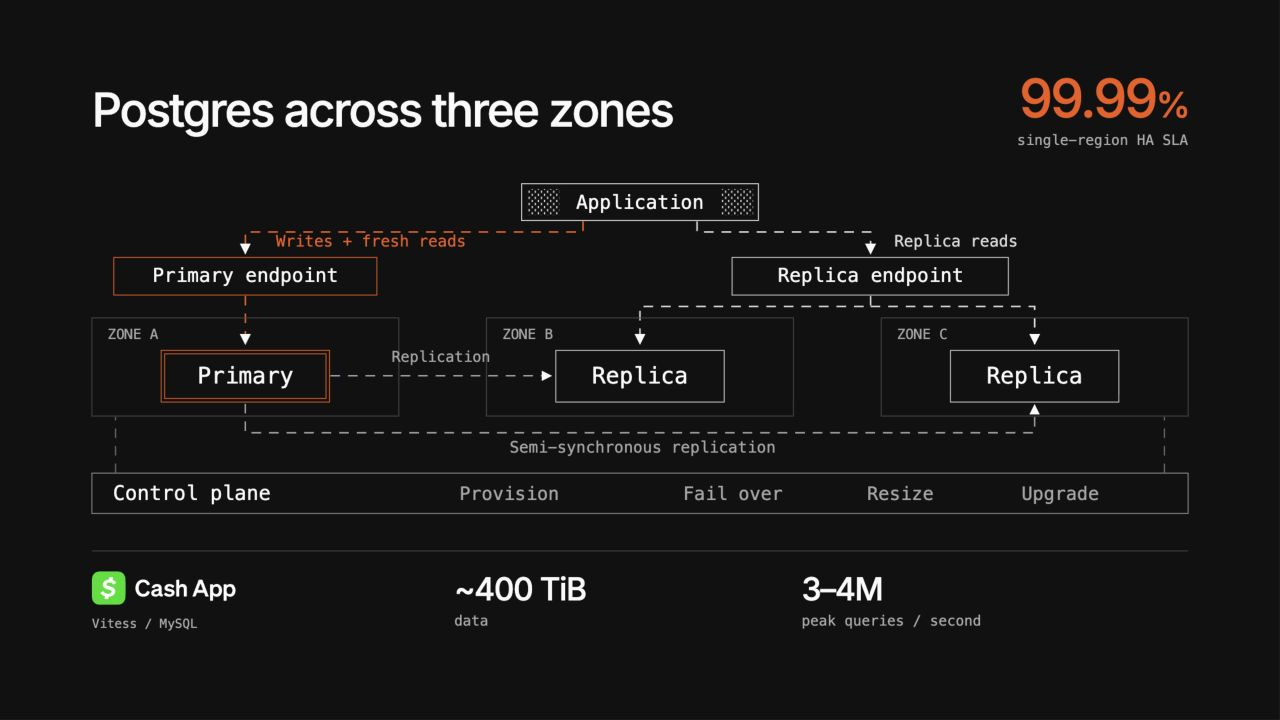
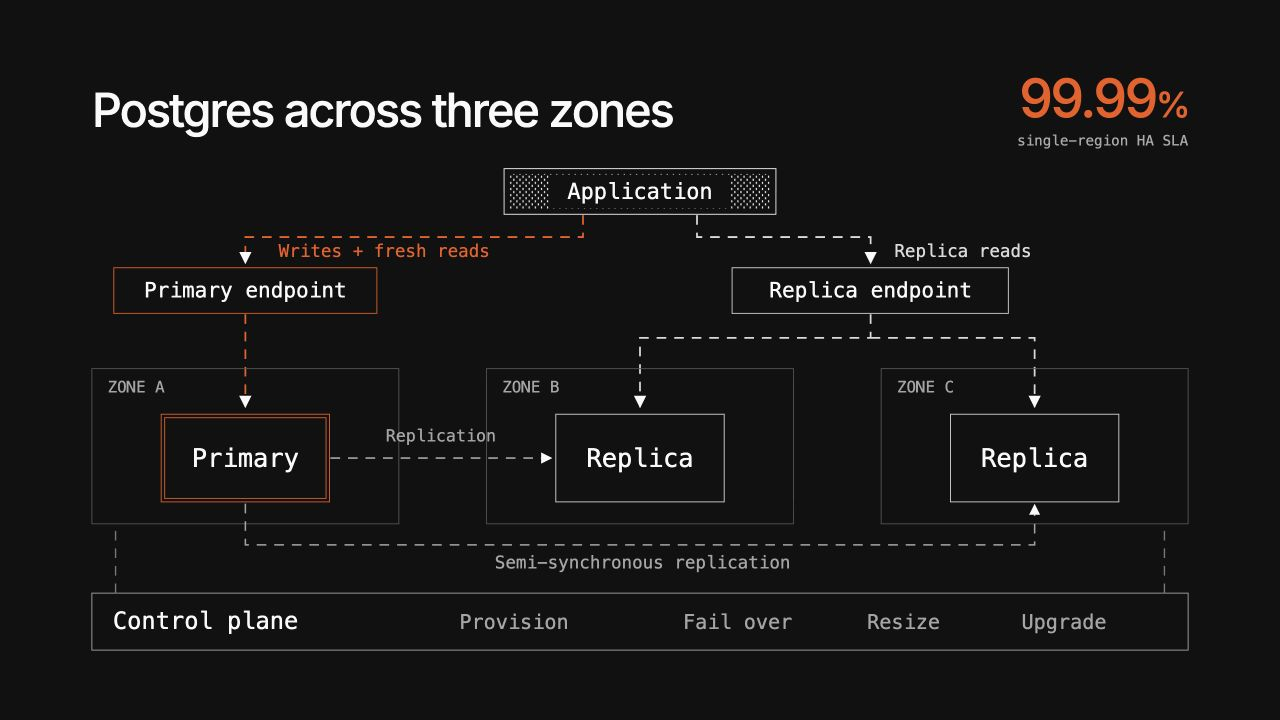
Expand availability architecture and remove Cash App proof row

diff --git a/theme.css b/theme.css
@@ -37,19 +37,14 @@ body{margin:0;background:var(--ink);color:var(--white);font-family:Inter,Arial,s
 .vitalize-charts svg{height:390px;width:100%}
 .vitalize-charts>div:last-child{border-left:1px solid #555;padding-left:24px}
 
-/* Availability: one heading, a wide topology, and a concise proof row. */
+/* Availability: the full content area belongs to the node and control-plane architecture. */
 .title-with-stat{display:flex;justify-content:space-between;align-items:center;gap:36px}
 .sla{flex-shrink:0;text-align:right}
 .sla strong{font-size:64px;letter-spacing:-3px;color:var(--orange);line-height:1}
 .sla strong span{font-size:42px}
 .sla p{font:17px var(--mono);color:#aaa;margin-top:8px}
-.ha-diagram{margin-top:42px}
+.ha-diagram{margin-top:24px}
 .ha-diagram svg{width:100%;height:auto}
-.cash-proof{display:grid;grid-template-columns:1.05fr 1fr 1.3fr;align-items:center;gap:60px;border-top:1px solid #484848;padding-top:24px;margin-top:40px}
-.cash-proof strong{display:block;font-size:38px;letter-spacing:-1.4px;white-space:nowrap}
-.cash-proof span{display:block;font:17px var(--mono);color:#aaa;margin-top:9px}
-.cash-proof .customer img{width:172px}
-.cash-proof .customer span{font-size:15px;margin-top:10px}
 
 /* Benchmarks: align chart headings and reserve the lower band for workload context. */
 .metal-heading{display:flex;justify-content:space-between;align-items:baseline;gap:30px}

diff --git a/build_content.py b/build_content.py
@@ -31,23 +31,23 @@ b+=stipple_box(60,325,380,64,'Local NVMe','metal-hero-accent',ORANGE,25)
 b+=txt(250,465,'Compute + storage on one server',18,GRAY,'middle')
 servers=svg(500,475,b,'The application connects to PlanetScale Metal. Postgres compute and local NVMe storage run on the same server.',mark='metal-hero')
 
-# HA: compact topology keeps component labels readable beside the customer proof.
-b=stipple_box(490,0,270,42,'Application','ha-arrow-dots',WHITE,22)
-b+=path('M560 43V55H175V80',ORANGE,1.8,True,arrow='ha-arrow')+txt(210,72,'Writes + fresh reads',18,ORANGE)
-b+=path('M690 43V55H888V80',BLUE,1.8,True,arrow='ha-arrow')+txt(915,72,'Replica reads',18,BLUE)
-b+=rect(25,84,300,43,stroke=ORANGE)+txt(175,112,'Primary endpoint',22,anchor='middle')
-b+=rect(730,84,315,43,stroke=BLUE)+txt(888,112,'Replica endpoint',22,anchor='middle')
-b+=path('M175 128V183',ORANGE,1.8,True,arrow='ha-arrow')
-b+=path('M888 128V140H625V183',BLUE,1.8,True,arrow='ha-arrow')+path('M888 140H1075V183',BLUE,1.8,True,arrow='ha-arrow')
+# HA: full-height architecture makes the query paths and control plane the focus.
+b=stipple_box(470,0,310,52,'Application','ha-arrow-dots',WHITE,25)
+b+=path('M560 53V78H175V108',ORANGE,2,True,arrow='ha-arrow')+txt(213,101,'Writes + fresh reads',20,ORANGE)
+b+=path('M690 53V78H888V108',BLUE,2,True,arrow='ha-arrow')+txt(915,101,'Replica reads',20,BLUE)
+b+=rect(25,113,300,52,stroke=ORANGE)+txt(175,147,'Primary endpoint',24,anchor='middle')
+b+=rect(730,113,315,52,stroke=BLUE)+txt(888,147,'Replica endpoint',24,anchor='middle')
+b+=path('M175 166V272',ORANGE,2,True,arrow='ha-arrow')
+b+=path('M888 166V193H625V272',BLUE,2,True,arrow='ha-arrow')+path('M888 193H1075V272',BLUE,2,True,arrow='ha-arrow')
 for x,label,role,color in [(0,'ZONE A','Primary',ORANGE),(450,'ZONE B','Replica',BLUE),(900,'ZONE C','Replica',BLUE)]:
-    b+=rect(x,153,350,112,'none','#484848')+txt(x+18,177,label,16,GRAY)
-    b+=(db(x+79,190,192,59,color) if role=='Primary' else rect(x+79,190,192,59,INK,color))+txt(x+175,228,role,26,anchor='middle')
-b+=path('M272 219H524',GRAY,1.7,True,arrow='ha-arrow')+txt(398,203,'Replication',17,GRAY,'middle')
-b+=path('M175 251V284H1075V252',GRAY,1.7,True,arrow='ha-arrow')+txt(628,307,'Semi-synchronous replication',18,GRAY,'middle')
-b+=rect(0,330,1250,46,INK,'#9b9b9b')+txt(24,361,'Control plane',23,WHITE,weight=500)
-b+=txt(419,361,'Provision',21,GRAY)+txt(674,361,'Fail over',21,GRAY)+txt(884,361,'Resize',21,GRAY)+txt(1060,361,'Upgrade',21,GRAY)
-for x in (27,1223):b+=path(f'M{x} 330V266','#686868',1.5,True)
-ha=svg(1250,380,b,'A primary and two read replicas across three availability zones. Primary and replica endpoints route application traffic. Semi-synchronous replication connects the nodes. The separate control plane provisions, fails over, resizes and upgrades them.',mark='ha-arrow')
+    b+=rect(x,228,350,177,'none','#555555')+txt(x+18,255,label,18,GRAY)
+    b+=(db(x+79,280,192,100,color) if role=='Primary' else rect(x+79,280,192,100,INK,color))+txt(x+175,340,role,29,anchor='middle')
+b+=path('M272 330H524',GRAY,1.8,True,arrow='ha-arrow')+txt(398,311,'Replication',19,GRAY,'middle')
+b+=path('M175 382V429H1075V383',GRAY,1.8,True,arrow='ha-arrow')+txt(628,456,'Semi-synchronous replication',20,GRAY,'middle')
+b+=rect(0,484,1250,65,INK,'#aaaaaa')+txt(24,525,'Control plane',27,WHITE,weight=500)
+b+=txt(419,525,'Provision',23,GRAY)+txt(674,525,'Fail over',23,GRAY)+txt(884,525,'Resize',23,GRAY)+txt(1060,525,'Upgrade',23,GRAY)
+for x in (27,1223):b+=path(f'M{x} 484V406','#777777',1.5,True)
+ha=svg(1250,553,b,'A primary and two read replicas across three availability zones. Primary and replica endpoints route application traffic. Semi-synchronous replication connects the nodes. The separate control plane provisions, fails over, resizes and upgrades them.',mark='ha-arrow')
 
 # Throughput bars and real one-second p99 samples, kept as native vector charts.
 qps_source=json.loads((R/'qa/benchmark-qps.json').read_text())
@@ -136,7 +136,7 @@ scale=svg(820,380,b,'Neki read-only point-select benchmark: 5 shards delivered 9
 slides=[
  dict(id='opening',label='Your Postgres. Faster on Metal',theme='opening',html=f'''<div class="hero"><div><h1>Your Postgres.<br>Faster on Metal</h1><p class="lead">Cloud Postgres on local NVMe.<br>Operated by PlanetScale.</p></div><div class="server-art">{servers}</div></div><div class="opening-proof"><div><strong>Unlimited IOPS</strong><span>Local NVMe storage</span></div><div><strong>Room to grow</strong><span>Horizontal scale with Neki</span></div></div>''',notes="1:15. “You already run Postgres. We bring the hardware and operating platform to make it faster, keep it available, and give you a path to horizontal scale as your workload grows.” Start with the prospect: a larger instance can add capacity, but someone still owns slow requests, failover, and production changes. Ask: “Which is taking the most engineering attention today?” The primary offer is hosted Postgres on Metal. Explain that local NVMe puts storage alongside compute. Unlimited IOPS is PlanetScale's product wording: there is no separately provisioned IOPS tier, but physical drives and CPUs still have finite limits. Don't imply infinite throughput. Transition: “Vitalize is one example of a Postgres team that made this move.” Sources: https://planetscale.com/metal and https://planetscale.com/blog/benchmarking-postgres."),
  dict(id='vitalize',label='Vitalize: 2 ms p95, half the vCPUs',theme='vitalize',html=f'''<h2>Vitalize: <span class="accent">2 ms p95</span></h2><div class="customer-story"><span>Hospital staffing software</span><span>400 GB / 150 million rows</span></div><div class="customer-move"><span>Supabase</span><span class="move-line"></span><strong>PlanetScale Metal</strong></div><div class="vitalize-charts"><div>{vitalize_latency}</div><div>{vitalize_compute}</div></div>''',notes='1:45. “Vitalize runs hospital staffing software. They moved a 400 GB Postgres database with 150 million rows from Supabase to PlanetScale Metal. They report about 2 ms p95 on half the vCPUs, with the same 16 GB of RAM.” Tell the customer story before explaining the graphs: demanding database reads, the move, then the result. The latency plot is their actual PlanetScale Query Insights capture after migration, not a paired before/after percentile. No comparable Supabase p95 is published. The 200 GB JSONB-heavy table comparison separately reports 50-second average reads before and 1.2-second maximum reads after; do not calculate a speedup from unlike statistics. The cutover included taking the app offline. These are customer-reported outcomes, not a guarantee. Transition: “Here is the platform operating that database.” Source: https://vitalize.care/blog/from-supabase-to-planetscale . Other cases and suitable alternatives: docs/customer-case-studies.md.'),
- dict(id='availability',label='Your Postgres. Operated by PlanetScale',theme='availability',html=f'''<div class="title-with-stat"><h2>Postgres across three zones</h2><div class="sla"><strong>99.99<span>%</span></strong><p>single-region HA SLA</p></div></div><div class="ha-diagram">{ha}</div><div class="cash-proof"><div class="customer"><img src="assets/cash-app.svg" alt="Cash App"><span>Vitess / MySQL</span></div><div><strong>~400 TiB</strong><span>data</span></div><div><strong>3–4M</strong><span>peak queries / second</span></div></div>''',notes="2:00. “We operate a primary and two replicas across three availability zones. Your application has a primary endpoint and a replica endpoint; our control plane manages health and production changes.” Trace application traffic first, replication second, management last. Use replicas for reads that tolerate replication lag. Semi-synchronous streaming replication acknowledges from at least one replica. The control plane is outside the SQL query path and handles provisioning, failover, resizing, and upgrades. Backups and point-in-time recovery complement HA. Automatic failover can interrupt connections, so applications need retries. The diagram is a simplified HA topology. 99.99% is the single-region HA SLA under the applicable agreement, not a guarantee of no interruption. It excludes single-node and beta offerings. Cash App is a separate proof of the team's operating experience: roughly 400 TiB and 3–4M peak QPS on Vitess/MySQL. It is not a Postgres or Neki case. Hosted infrastructure is the main offer; if data location requires it, assess single-tenancy or PlanetScale Managed in the customer's own AWS/GCP account. Transition: “Local NVMe is the hardware foundation. Let's look at its performance under load.” Sources: https://planetscale.com/blog/benchmarking-postgres ; https://planetscale.com/legal/planetscale-service-level-agreement ; https://planetscale.com/case-studies/cash-app ; https://planetscale.com/docs/plans/managed ."),
+ dict(id='availability',label='Your Postgres. Operated by PlanetScale',theme='availability',html=f'''<div class="title-with-stat"><h2>Postgres across three zones</h2><div class="sla"><strong>99.99<span>%</span></strong><p>single-region HA SLA</p></div></div><div class="ha-diagram">{ha}</div>''',notes="2:00. “We operate a primary and two replicas across three availability zones. Your application has a primary endpoint and a replica endpoint; our control plane manages health and production changes.” Trace application traffic first, replication second, management last. Use replicas for reads that tolerate replication lag. Semi-synchronous streaming replication acknowledges from at least one replica. The control plane is outside the SQL query path and handles provisioning, failover, resizing, and upgrades. Backups and point-in-time recovery complement HA. Automatic failover can interrupt connections, so applications need retries. The diagram is a simplified HA topology. 99.99% is the single-region HA SLA under the applicable agreement, not a guarantee of no interruption. It excludes single-node and beta offerings. Hosted infrastructure is the main offer; if data location requires it, assess single-tenancy or PlanetScale Managed in the customer's own AWS/GCP account. Transition: “Local NVMe is the hardware foundation. Let's look at its performance under load.” Sources: https://planetscale.com/blog/benchmarking-postgres ; https://planetscale.com/legal/planetscale-service-level-agreement ; https://planetscale.com/docs/plans/managed ."),
  dict(id='metal',label='Postgres on Metal: throughput and p99',theme='metal',html=f'''<div class="metal-heading"><h2>More throughput. Lower p99</h2><p class="metal-line">Postgres on Metal</p></div><div class="benchmark-grid"><div><h3>Throughput <span>mean queries / second</span></h3>{bars}</div><div><h3>p99 latency <span>milliseconds / 1-second intervals</span></h3><div class="chart-legend"><span class="ps-dot">PlanetScale</span><span class="aurora-dot">Aurora</span></div>{latency}</div></div><p class="workload">TPCC-like / 500 GB / 32 connections / 5-minute run</p>''',notes="1:45. “In this mixed read/write benchmark, Postgres on Metal delivers more throughput and lower p99 than these tested configurations. We can evaluate the same questions against your application.” Left: arithmetic mean QPS across 300 one-second samples with 32 concurrent connections: PlanetScale 16,338.6276; Aurora 10,908.9315; AlloyDB 10,355.0109; Supabase 5,270.2068. Right: one-second interval p99 samples from the same TPCC-like benchmark, not an aggregate run-wide percentile. PlanetScale ranges 170.48–223.34 ms; Aurora 325.98–733 ms. Higher QPS and lower p99 are distinct findings. PlanetScale M-320 has 4 vCPU, 32 GB RAM, and 937 GB local NVMe; Aurora and AlloyDB use 4 vCPU/32 GB; Supabase uses 8 vCPU/32 GB and 12k IOPS. Clients run in each provider's cloud region; AlloyDB uses GCP, the others AWS. Work is sent to the primary, not summed across replicas. These are vendor-run synthetic results with different hardware and infrastructure, not isolated proof that NVMe causes every difference. The site's rounded ~18k headline spans other runs; this deck deliberately uses a single concurrency and exact samples. A separate read-only test has roughly equal average throughput for Aurora and PlanetScale, so do not claim every workload is faster by this ratio. Ask: “Which workload would we need to reproduce for this to matter to you?” Validate p95/p99, throughput, errors, and resource use in discovery. Transition: “When one machine becomes the constraint, Neki extends the architecture across Postgres shards.” Sources: https://planetscale.com/benchmarks ; https://planetscale.com/benchmarks/aurora ; https://planetscale.com/benchmarks/alloydb ; https://planetscale.com/benchmarks/supabase . Data definitions: docs/postgres-metal-benchmarks.md."),
  dict(id='neki',label='Neki: Postgres beyond a single machine',theme='neki',html=f'''<div class="neki-heading"><h2>Postgres beyond one machine</h2><div class="neki-lockup"><img src="assets/neki-cat.svg" alt="Neki cat"><span class="neki-wordmark">[ NEKI ]</span></div></div><div class="neki-topology">{neki}</div>''',notes="1:15. “Neki is our sharded Postgres architecture. Every shard is real Postgres, with routing and operations managed as one database.” Walk from the application to the router, then one shard group, then the control plane. Sidecars pool connections; shard primaries and replicas carry data. The diagram represents replicated HA shard groups, not the primary-only benchmark on the next slide. Say that Neki is available in Platform Preview as of the verified documentation on 27 September 2026; it is not covered by an SLA. The public site's “now available” wording does not mean general availability. Cross-shard transactions remain listed as coming soon. Evaluate shard keys, query/transaction compatibility and the transition from the current database with the team. Do not imply an automatic in-place conversion from ordinary PlanetScale Postgres. The immediate sale remains hosted Postgres on Metal. Transition: “The benchmark demonstrates how far this architecture can scale for a defined workload.” Sources: https://neki.dev/ ; https://planetscale.com/docs/neki ; https://planetscale.com/blog/the-architecture-of-neki ."),
  dict(id='neki-scale',label='Neki: 118.5M queries per second',theme='neki neki-scale',html=f'''<div class="neki-heading"><h2><span class="yellow">118.5M</span> queries / second</h2><span class="neki-wordmark">[ NEKI ]</span></div><div class="scale-layout"><div><div class="scale-chart">{scale}</div><p class="neki-workload">Read-only point selects / Primary-only shards</p></div><div class="scale-metrics"><div><strong>1.22 <span>PiB</span></strong><p>data</p></div><div><strong>512</strong><p>shards</p></div><div><strong>6.06 <span>ms</span></strong><p>router p99</p></div></div></div>''',notes="1:00. “The published Neki run sustained 118.5 million queries per second across 512 shards over a 1.22 PiB dataset.” Follow the 5-, 50-, and 512-shard series and stop. Exact QPS: 999,624; 9,923,900; 118,538,803. Both axes are logarithmic. Workload: read-only, one-row primary-key point selects sent to a single shard. The measured configuration had 512 primary-only shards and 480 routers, without replicas or a failover event, for 16 minutes. It does not establish write performance or HA behavior. The 6.06 ms p99 is at the router; client p99 was 13.95 ms. These metrics do not share the TPCC workload or Vitalize workload and should not be compared on a common chart. Transition: “For your team, the next step is assessing today's Postgres workload and planning the migration.” Source: https://planetscale.com/blog/118-million-queries-per-second-on-neki ."),

diff --git a/README.md b/README.md
@@ -19,13 +19,13 @@ The PDF is a static 16:9 presentation backup. Speaker notes are also available i
 
 1. Hosted Postgres on Metal: local NVMe, unlimited IOPS, and a path to scale.
 2. Vitalize's Postgres migration and measured results.
-3. Three-zone availability, control plane, and Cash App operating experience.
+3. Full-height three-zone node architecture and control plane.
 4. Postgres Metal throughput and p99 benchmark evidence.
 5. Neki's sharded Postgres architecture.
 6. Neki's measured scale for a defined workload.
 7. Migration partnership and the technical discovery close.
 
-Technical qualifications and benchmark configurations are in the speaker notes. Cash App is identified as Vitess/MySQL, and the Neki benchmark is identified as read-only point selects on primary-only shards. Neki's preview status belongs in the spoken introduction and remains in the notes. No source labels or research appendix are shown in the deck.
+Technical qualifications and benchmark configurations are in the speaker notes. The Neki benchmark is identified as read-only point selects on primary-only shards. Neki's preview status belongs in the spoken introduction and remains in the notes. No source labels or research appendix are shown in the deck.
 
 ## Edit
 

diff --git a/docs/pitch-blueprint.md b/docs/pitch-blueprint.md
@@ -10,6 +10,8 @@ The user clarified that hosted Postgres on Metal is the central offer, with spee
 
 The latest user-approved direction prioritizes screen space. Keep the PlanetScale logo on the opening slide only. All six content slides use single-line headings. Vitalize's secondary vCPU claim belongs over the compute chart. Diagram-heavy slides use the reclaimed header space for larger, readable artwork and separation between elements. This supersedes the longer working headlines below.
 
+The architecture slide now omits the Cash App proof row entirely, at the user's request. Its full content area is reserved for the application endpoints, three-zone topology, replication, and control plane. Cash App remains research context only; the older proposed proof-row placement below is superseded.
+
 ## Audience, objective, and constraints
 
 General Postgres prospect. CTO and technical leaders. Seven slides total, with two Neki slides toward the end. Core presentation: 11 minutes 30 seconds, with room for short exchanges within a 15-minute meeting segment. The next step is technical discovery plus a migration assessment.
